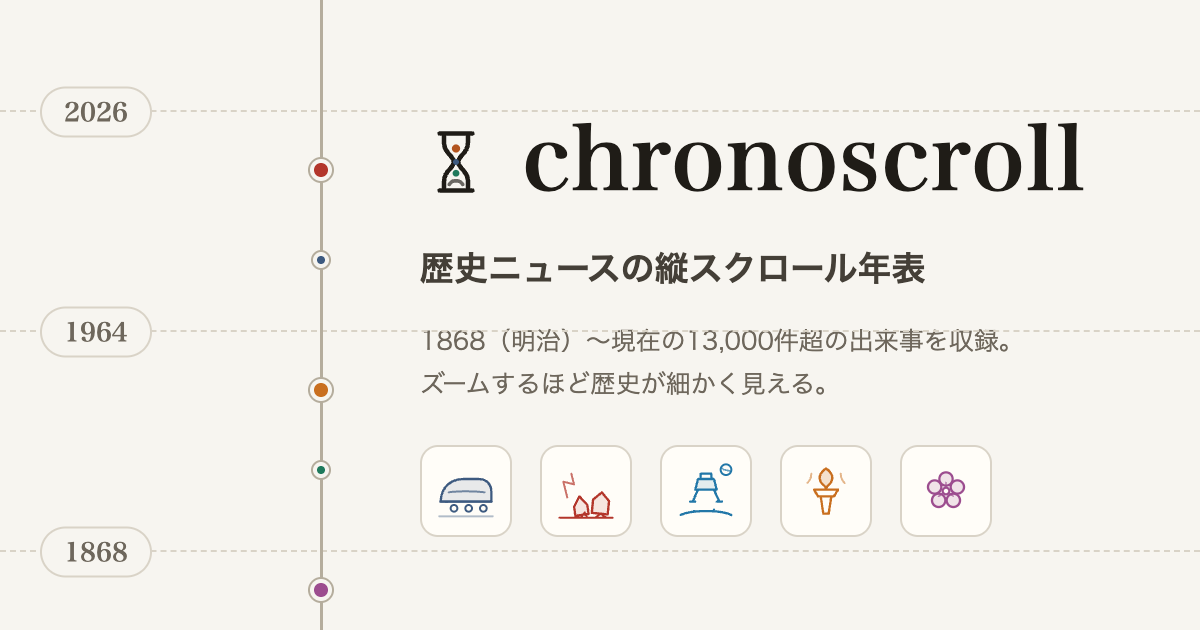
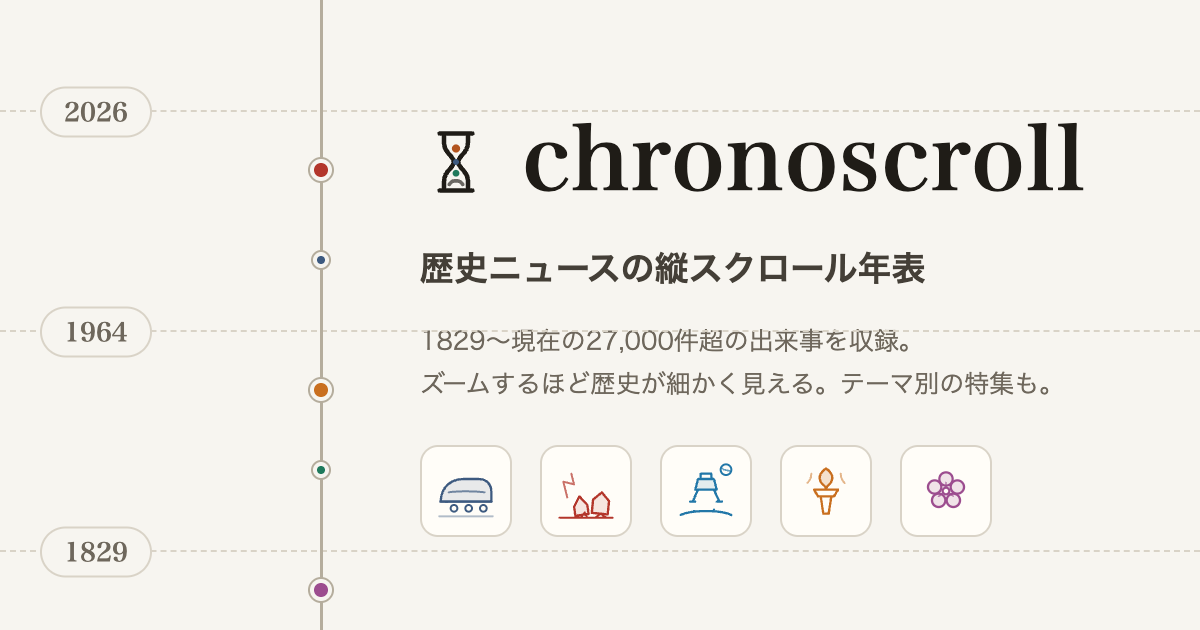
feat(ogp): 特集ごとのOGP画像を生成し、共通ogp.pngの古い数値も修正
SNSで /c/<slug> を共有しても全ページ共通の画像しか出ない状態だった。
特集7本ぶんのOGP画像を実データから生成してコミットする。

- static/ogp-collection-src.html … collections.jsonを読んで
  タイトル・リード・件数・期間・アイコンを描くテンプレ
- scripts/gen-ogp.mjs … build/ を配信して1200x630で撮影（npm run ogp）
- static/ogp/c-<slug>.png 7枚 + 共通 ogp.png を再生成
- /c/[slug] の og:image を特集ごとの画像に差し替え

あわせて共通ogp.pngの本文が「1868（明治）〜現在の13,000件超」のまま
実データ（1829〜・27,051件）とズレていたのを修正。

配信時に生成せずコミットする方針はAGENTS.mdに明記した
（特集を追加/改題したら npm run ogp が必要。画像が無いと共有時404）。

スモークに9件追加（全特集のOGPが200で返る / og:imageが特集ごとを指す）。
287テスト・lib100%・スモーク45/45

Changed region(s): [[0.37, 0.5127, 0.8633, 0.6333], [0.0617, 0.8746, 0.1233, 0.9048]]

diff --git a/static/ogp-collection-src.html b/static/ogp-collection-src.html
@@ -1,0 +1,89 @@
+<!doctype html>
+<html lang="ja">
+<head>
+<meta charset="utf-8">
+<title>特集OGP生成用（開発用・?slug=<slug> で描画）</title>
+<style>
+	* { margin: 0; box-sizing: border-box; }
+	body {
+		width: 1200px; height: 630px;
+		background: #f7f5f0;
+		font-family: "Hiragino Kaku Gothic ProN", "Hiragino Sans", sans-serif;
+		color: #1f1c17;
+		position: relative; overflow: hidden;
+		padding: 74px 82px;
+		display: flex; flex-direction: column;
+	}
+	/* 左端の背骨＝年表のガイド */
+	.spine { position: absolute; left: 0; top: 0; bottom: 0; width: 14px; background: #b3541e; }
+	.brand {
+		display: flex; align-items: center; gap: 14px;
+		font-family: "Hiragino Mincho ProN", serif; font-size: 30px; font-weight: 700; color: #6e675c;
+	}
+	.brand .tag {
+		font-family: "Hiragino Kaku Gothic ProN", sans-serif;
+		font-size: 20px; font-weight: 700; letter-spacing: 0.14em;
+		color: #b3541e; border: 3px solid #b3541e; border-radius: 999px; padding: 3px 18px;
+	}
+	.body { display: flex; align-items: center; gap: 54px; margin-top: 40px; flex: 1; }
+	.icon { flex: none; color: #b3541e; }
+	.text { min-width: 0; }
+	h1 {
+		font-family: "Hiragino Mincho ProN", serif;
+		font-size: 78px; line-height: 1.28; letter-spacing: 0.01em;
+	}
+	p.lead {
+		font-size: 27px; margin-top: 26px; color: #443f37; line-height: 1.72;
+		display: -webkit-box; -webkit-line-clamp: 3; -webkit-box-orient: vertical; overflow: hidden;
+	}
+	.meta {
+		display: flex; align-items: center; gap: 16px;
+		font-size: 25px; color: #6e675c; font-weight: 600;
+		border-top: 3px solid #d9d3c7; padding-top: 24px;
+	}
+	.meta .count { color: #1f1c17; font-size: 29px; font-weight: 700; }
+	.meta .sep { color: #b5ad9d; }
+	.meta .url { margin-left: auto; font-size: 23px; color: #8a8272; }
+</style>
+</head>
+<body>
+	<div class="spine"></div>
+	<div class="brand">
+		<span class="tag">特集</span>
+		<span>chronoscroll</span>
+	</div>
+	<div class="body">
+		<div class="icon"><svg id="icon" width="200" height="200" viewBox="0 0 96 96"></svg></div>
+		<div class="text">
+			<h1 id="title">—</h1>
+			<p class="lead" id="lead"></p>
+		</div>
+	</div>
+	<div class="meta">
+		<span class="count" id="count"></span>
+		<span class="sep">·</span>
+		<span id="span"></span>
+		<span class="url" id="url"></span>
+	</div>
+<script>
+(async () => {
+	const slug = new URLSearchParams(location.search).get('slug');
+	const { collections } = await (await fetch('/data/collections.json')).json();
+	const c = collections.find((x) => x.slug === slug);
+	if (!c) { document.getElementById('title').textContent = 'not found: ' + slug; return; }
+	document.getElementById('title').textContent = c.title;
+	document.getElementById('lead').textContent = c.lead;
+	document.getElementById('count').textContent = '全' + c.count + '件';
+	document.getElementById('span').textContent = c.fromDate.slice(0, 4) + '年 〜 ' + c.toDate.slice(0, 4) + '年';
+	document.getElementById('url').textContent = 'chronoscroll.vercel.app/c/' + c.slug;
+	if (c.icon) {
+		const use = document.createElementNS('http://www.w3.org/2000/svg', 'use');
+		use.setAttribute('href', '/art/sprite.svg#' + c.icon);
+		document.getElementById('icon').appendChild(use);
+	}
+	// 描画完了の合図（スクショ側が待つ）
+	document.body.dataset.ready = '1';
+})();
+</script>
+</body>
+</html>

diff --git a/src/routes/c/[slug]/+page.svelte b/src/routes/c/[slug]/+page.svelte
@@ -11,6 +11,8 @@
 
 	const c = $derived(data.detail);
 	const canonical = $derived(`https://chronoscroll.vercel.app/c/${c.slug}`);
+	// 特集ごとのOGP画像（scripts/gen-ogp.mjs が実データから生成してコミットしてある）
+	const ogImage = $derived(`https://chronoscroll.vercel.app/ogp/c-${c.slug}.png`);
 	const spanLabel = $derived(`${c.fromDate.slice(0, 4)}年〜${c.toDate.slice(0, 4)}年`);
 	// 年表側は特集を ?k=<slug> で絞り込む。期間が画面に収まる初期ズームも一緒に渡す
 	const onTimeline = $derived(timelineHref(c.slug, c.fromDate, c.toDate));
@@ -24,7 +26,7 @@
 	<meta property="og:title" content="{c.title} | chronoscroll" />
 	<meta property="og:description" content={c.description} />
 	<meta property="og:url" content={canonical} />
-	<meta property="og:image" content="https://chronoscroll.vercel.app/ogp.png" />
+	<meta property="og:image" content={ogImage} />
 	<meta property="og:site_name" content="chronoscroll" />
 	<meta name="twitter:card" content="summary_large_image" />
 </svelte:head>

diff --git a/AGENTS.md b/AGENTS.md
@@ -19,6 +19,10 @@
   `static/data/collections/<slug>.json`（収録イベント本体つき）の2系統。
   年表側は `?k=<slug>` で絞り込む。**特集の絞り込み中はLODを効かせない**（低importanceに
   振ってある収録イベントが閾値に負けて1件も出なくなるため。Timeline.svelteの`threshold`参照）。
+- OGP画像は**実データから生成してコミットする**（配信時に生成しない）。`npm run build` のあと
+  `npm run ogp` で `static/ogp.png`（テンプレ: `static/ogp-src.html`）と特集ごとの
+  `static/ogp/c-<slug>.png`（テンプレ: `static/ogp-collection-src.html`・collections.jsonから描画）を再生成。
+  **特集を追加/改題したら必ず再生成する**（画像が無いとSNS共有時に404になる）。
 - `src/lib/sponsor.ts`の`CURRENT_SPONSOR`が自前スポンサー枠の設定値（未契約時は`null`で非表示）。
 
 ## Svelte 5 の注意（訓練データより新しい）
